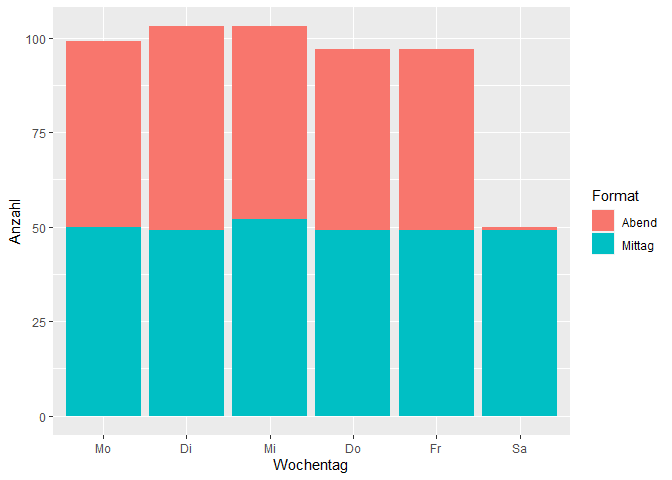
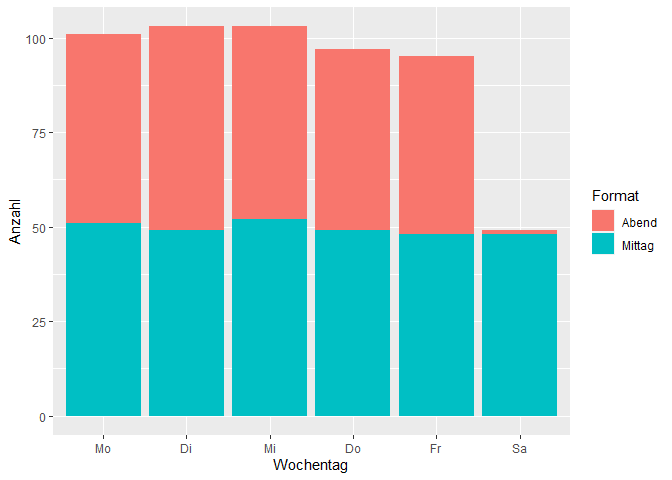
update .rmd

diff --git a/analysis.md b/analysis.md
@@ -17,13 +17,13 @@ library(tidytext)
 library(tidyr)
 
 # Load data
-date_of_data_to_load <- "2021-08-29"
+date_of_data_to_load <- "2021-08-30"
 load(file = paste0("data/", "news_", date_of_data_to_load, ".Rdata"))
 ```
 
 # Analysis
 
-The data collected from the webpage go from 2017-08-31 to 2021-08-28.
+The data collected from the webpage go from 2017-08-31 to 2021-08-30.
 
 ``` r
 # Articles by month
@@ -116,12 +116,12 @@ news_clean_unnested %>%
 ```
 
     ##           Wort Anzahl
-    ## 1       corona    258
-    ## 2           eu    109
+    ## 1       corona    256
+    ## 2           eu    108
     ## 3         lage     81
-    ## 4     saarland     77
-    ## 5         neue     54
-    ## 6    interview     53
+    ## 4     saarland     78
+    ## 5         neue     53
+    ## 6    interview     52
     ## 7   reaktionen     49
     ## 8  afghanistan     46
     ## 9    bundestag     46
@@ -132,13 +132,13 @@ news_clean_unnested %>%
     ## 14         usa     35
     ## 15   kommentar     34
     ## 16       china     32
-    ## 17       jahre     32
+    ## 17       jahre     31
     ## 18       trump     31
-    ## 19          us     31
-    ## 20       woche     29
-    ## 21    aktuelle     28
-    ## 22       spahn     28
-    ## 23        wahl     28
+    ## 19          us     30
+    ## 20    aktuelle     28
+    ## 21       spahn     28
+    ## 22        wahl     28
+    ## 23       woche     28
     ## 24        bund     27
     ## 25          ab     26
     ## 26  diskussion     26
@@ -159,9 +159,9 @@ news_clean_unnested %>%
 ```
 
     ##                  Wort Anzahl
-    ## 1              corona    258
-    ## 2 US_keywords_summary    122
-    ## 3                  eu    109
+    ## 1              corona    256
+    ## 2 US_keywords_summary    121
+    ## 3                  eu    108
 
 On top of the list we also find Afghanistan, which might have entered the daily news just recently. Let's confirm this statement with the data and print keywords over time.
 
